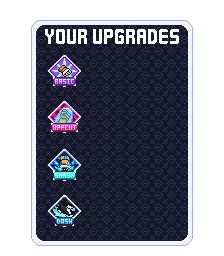
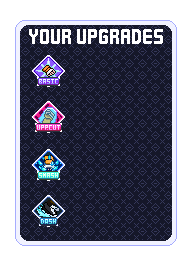
new cards

diff --git a/Engine/Engine/UpgradeUIStateMachine.cpp b/Engine/Engine/UpgradeUIStateMachine.cpp
@@ -261,11 +261,11 @@ namespace Engine
     auto rect = Resources::get_rect_texture();
 
     // ---- Spritesheet configuration — update these if the sheet changes ----
-    constexpr int   ss_card_w = 160;   // pixel width  of one card frame
+    constexpr int   ss_card_w = 128;   // pixel width  of one card frame  (1024 / 8 cols)
     constexpr int   ss_card_h = 224;   // pixel height of one card frame
     constexpr int   ss_rows = 1;     // number of rows  in the sheet
-    constexpr int   ss_cols = 6;     // number of cols  in the sheet
-    constexpr int   ss_total = 6;     // total number of cards in the sheet
+    constexpr int   ss_cols = 8;     // number of cols  in the sheet (actual sheet width)
+    constexpr int   ss_total = 6;     // number of cards in use (last 2 ignored for now)
     // -----------------------------------------------------------------------
 
     auto spritesheet = Resources::load_texture("images/Upgrades/Cards_Spritesheet.png");
